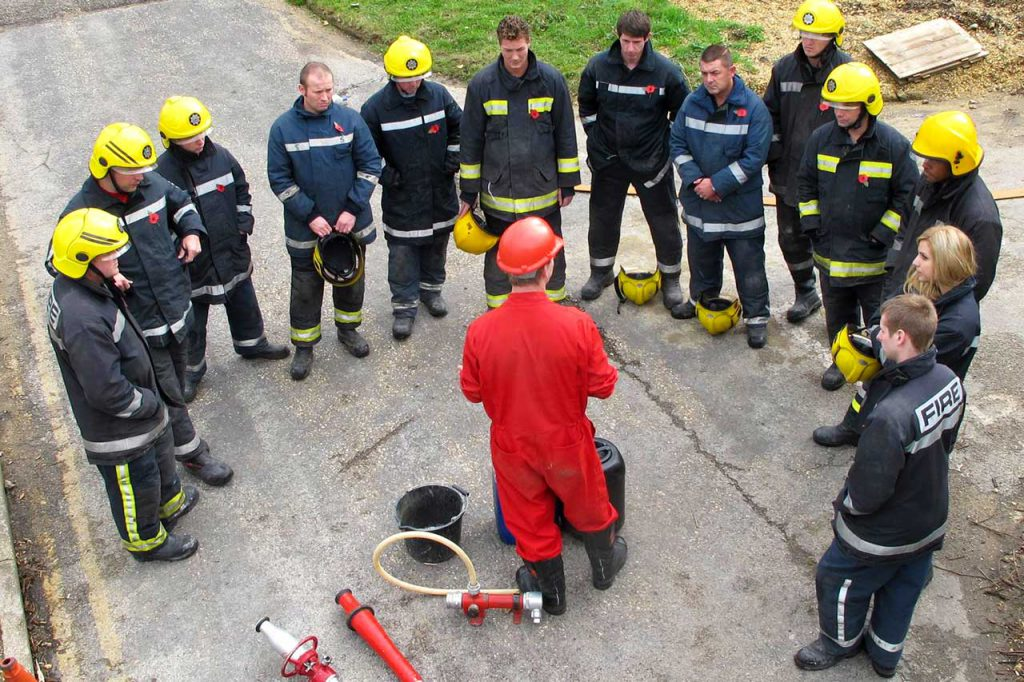
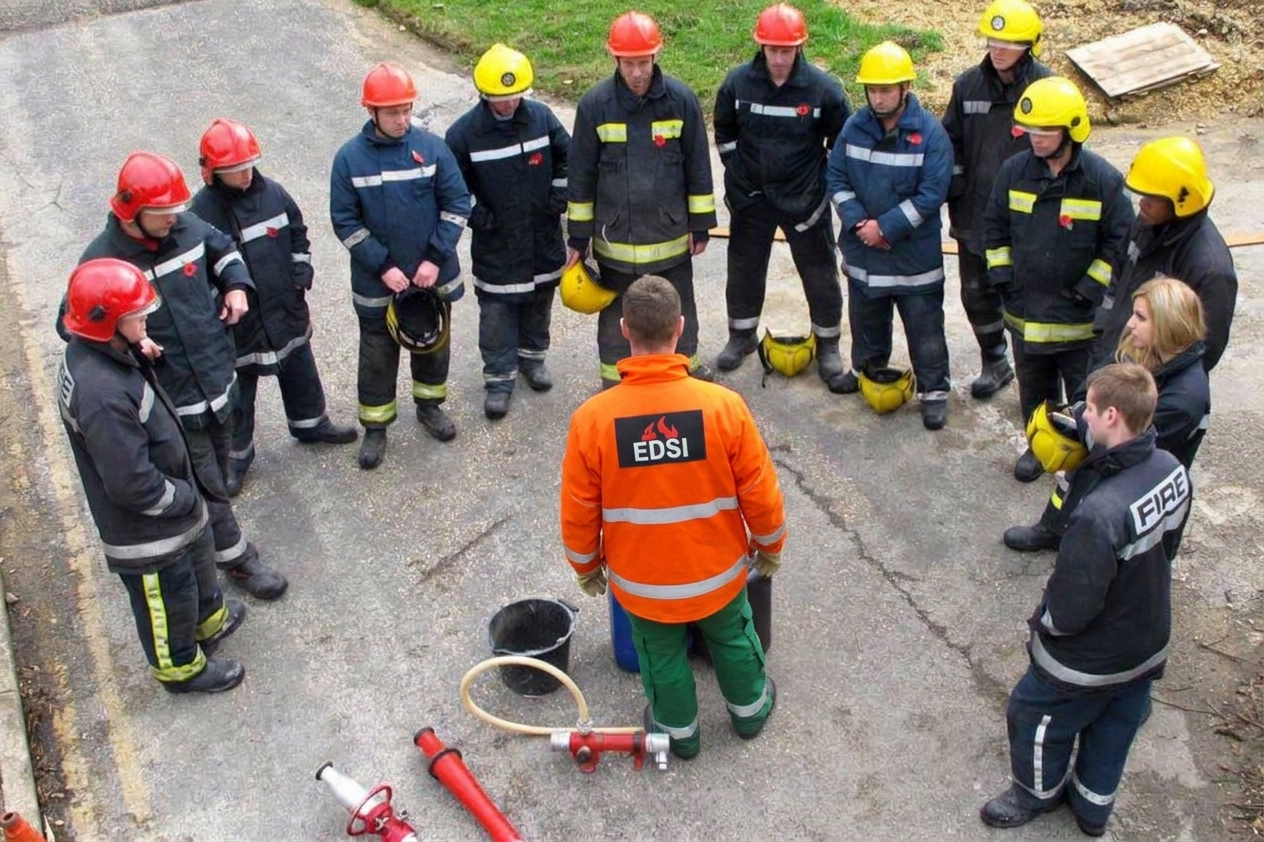
cambios de imagenes

diff --git a/empresas/formacion-integral-brigadas.css b/empresas/formacion-integral-brigadas.css
@@ -13,7 +13,8 @@
 .hero-course {
     background: linear-gradient(rgba(0, 0, 0, 0.7), rgba(0, 0, 0, 0.4));
     background-size: cover;
-    background-position: center;
+    background-position: center 18%;
+    background-repeat: no-repeat;
     color: white;
     padding: 60px 20px;
     border-radius: 8px;

diff --git a/capacitacion-empresas.html b/capacitacion-empresas.html
@@ -102,6 +102,7 @@ redirect_from:
       <img
         src="/assets/brigada.jpg"
         alt="Brigadista preparado para responder a emergencias"
+        class="brigada-image"
       />
       <div>
         <span class="badge badge-practico">Programa anual</span>

diff --git a/style.scss b/style.scss
@@ -307,6 +307,9 @@ a {
 .curso-card img.autoelevadores-image {
   object-position: 50% 65%;
 }
+.curso-card img.brigada-image {
+  object-position: 50% 35%;
+}
 .curso-card > div {
   padding: 25px;
   flex: 1;
